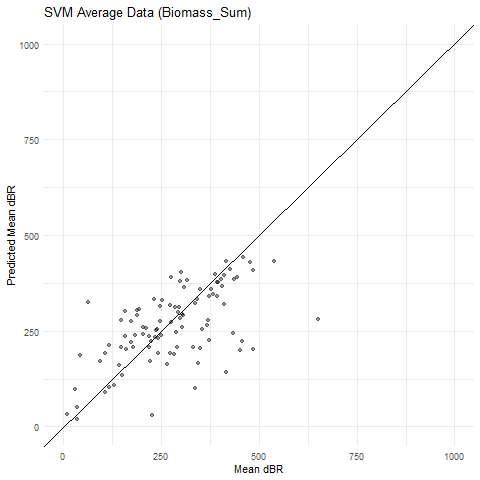
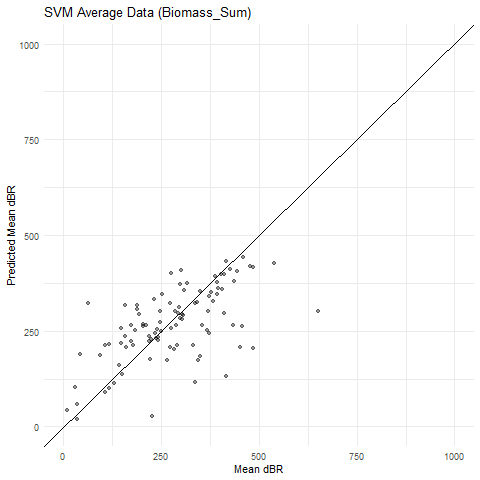
Updated model with veg cover and max wind

diff --git a/ClimateStations_RAWS.html b/ClimateStations_RAWS.html
@@ -440,11 +440,7 @@ stations_sf &lt;- st_transform(stations_sf, crs = st_crs(fires)) #set crs to mat
 </div>
 <div id="find-nearest-station-to-each-fire" class="section level3">
 <h3>Find nearest station to each fire</h3>
-<pre class="r"><code>#trying using rgeos FAILED
-# nearest &lt;- gNearestPoints(fires_sp[1], station_try)
-# plot(nearest) #only returns one pair of points
-
-#trying using sf
+<pre class="r"><code>#trying using sf
 fire_centers &lt;- st_centroid(fires, of_largest_polygon = FALSE) #creating points for centroid of fires</code></pre>
 <pre><code>## Warning in st_centroid.sf(fires, of_largest_polygon = FALSE): st_centroid
 ## assumes attributes are constant over geometries of x</code></pre>
@@ -579,7 +575,13 @@ week_sol &lt;- weather %&gt;%
 ave_wind &lt;- weather %&gt;%
   filter(fires == TRUE) %&gt;%
   group_by(OBJECTID) %&gt;% 
-  summarise(wind_speed = mean(wind_avg_mph, na.rm = TRUE))</code></pre>
+  summarise(wind_speed = mean(wind_avg_mph, na.rm = TRUE))
+
+#Max wind speed
+max_wind &lt;- weather %&gt;%
+  filter(fires == TRUE) %&gt;%
+  group_by(OBJECTID) %&gt;% 
+  summarise(wind_speed = mean(wind_max_mph, na.rm = TRUE))</code></pre>
 <pre class="r"><code>#combine calculated weather data
 
 ##all_weather &lt;- st_join(month_temp, week_temp, left = TRUE) #error here
@@ -593,7 +595,8 @@ all_weather &lt;- full_join(month_temp, week_temp) %&gt;%
   full_join(dur_humid) %&gt;%
   full_join(month_sol) %&gt;%
   full_join(week_sol) %&gt;%
-  full_join(ave_wind)</code></pre>
+  full_join(ave_wind) %&gt;%
+  full_join(max_wind)</code></pre>
 <pre><code>## Joining, by = &quot;OBJECTID&quot;
 ## Joining, by = &quot;OBJECTID&quot;
 ## Joining, by = &quot;OBJECTID&quot;
@@ -604,6 +607,7 @@ all_weather &lt;- full_join(month_temp, week_temp) %&gt;%
 ## Joining, by = &quot;OBJECTID&quot;
 ## Joining, by = &quot;OBJECTID&quot;
 ## Joining, by = &quot;OBJECTID&quot;</code></pre>
+<pre><code>## Joining, by = c(&quot;OBJECTID&quot;, &quot;wind_speed&quot;)</code></pre>
 <pre class="r"><code>fires_weather &lt;- full_join(fires_wstns, all_weather, by = &quot;OBJECTID&quot;)
 
 #st_write(fires_weather, dsn = &quot;./data/fire_data/fires_weather3.shp&quot;, layer = &quot;fires_weather3.shp&quot;)</code></pre>
@@ -614,10 +618,10 @@ length(objectIDs_1)</code></pre>
 <pre><code>## [1] 110</code></pre>
 <pre class="r"><code>objectIDs_2 &lt;- unique(month_temp$OBJECTID)
 length(objectIDs_2)</code></pre>
-<pre><code>## [1] 110</code></pre>
+<pre><code>## [1] 109</code></pre>
 <pre class="r"><code>objectIDs_missing &lt;- objectIDs_1[!(objectIDs_1 %in% objectIDs_2)]
 objectIDs_missing</code></pre>
-<pre><code>## numeric(0)</code></pre>
+<pre><code>## [1] 20560</code></pre>
 <p>```</p>
 </div>
 </div>

diff --git a/FireDBR_calcs.html b/FireDBR_calcs.html
@@ -1,10 +1,11 @@
 <!DOCTYPE html>
 
-<html>
+<html xmlns="http://www.w3.org/1999/xhtml">
 
 <head>
 
 <meta charset="utf-8" />
+<meta http-equiv="Content-Type" content="text/html; charset=utf-8" />
 <meta name="generator" content="pandoc" />
 <meta http-equiv="X-UA-Compatible" content="IE=EDGE" />
 
@@ -330,7 +331,6 @@ summary {
   border: none;
   display: inline-block;
   border-radius: 4px;
-  background-color: transparent;
 }
 
 .tabset-dropdown > .nav-tabs.nav-tabs-open > li {
@@ -372,19 +372,22 @@ summary {
 <pre class="r"><code># load packages
 library(raster)</code></pre>
 <pre class="r"><code># download all dbr tif files 
-path = 'data/BurnSev_110Fires/'
-list_files &lt;- list.files(path, pattern = '.tif')
+path = &#39;data/BurnSev_110Fires/&#39;
+list_files &lt;- list.files(path, pattern = &#39;.tif&#39;)
 
 # create raster for each .tif file
 rasterList &lt;- list()
 dbr_means &lt;- vector()
 for (i in 1:length(list_files)) {
   rasterList[[i]] &lt;- raster(paste0(path, list_files[i]))
-  dbr_means[i] &lt;- cellStats(rasterList[[i]], 'mean') # calculate mean for each raster
+  dbr_means[i] &lt;- cellStats(rasterList[[i]], &#39;mean&#39;) # calculate mean for each raster
 }
 
 # get objectIDs
 OBJECTID &lt;- as.numeric(substr(list_files, 1, 5))
+
+# name rasters
+names(rasterList) &lt;- OBJECTID
 
 # join data in one data.frame
 dbr_data &lt;- data.frame(OBJECTID, dbr_means)</code></pre>
